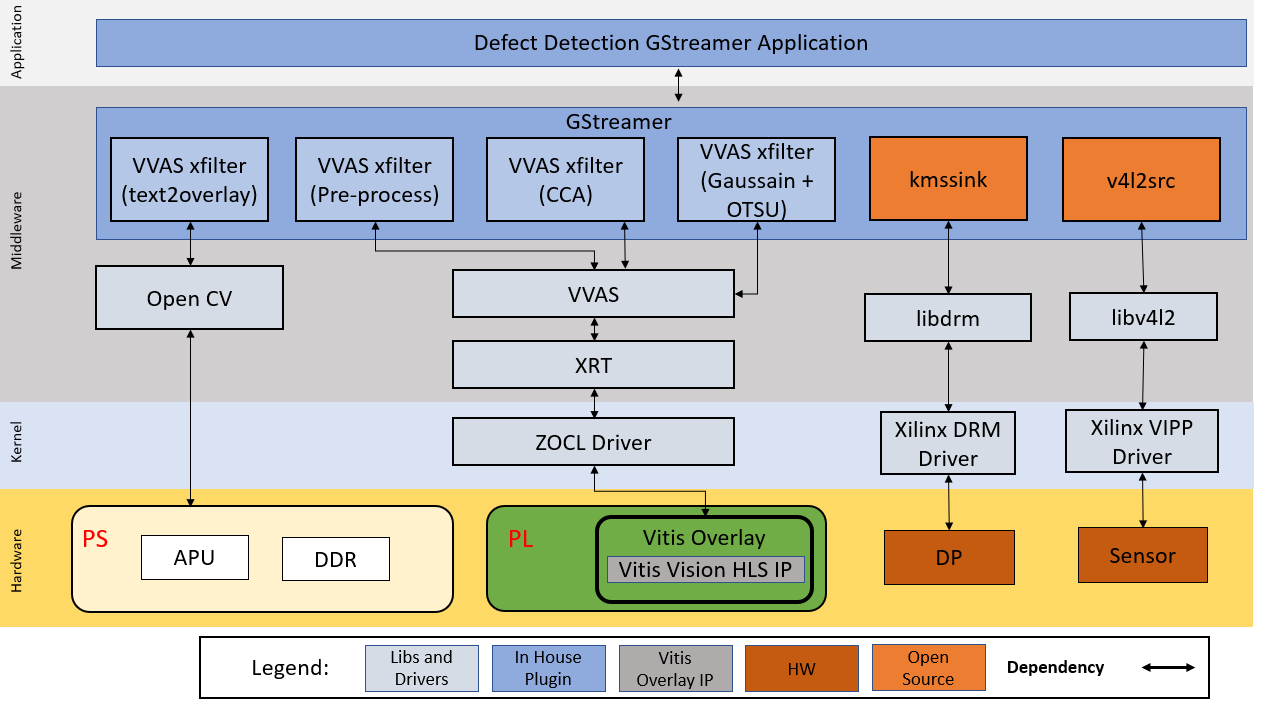
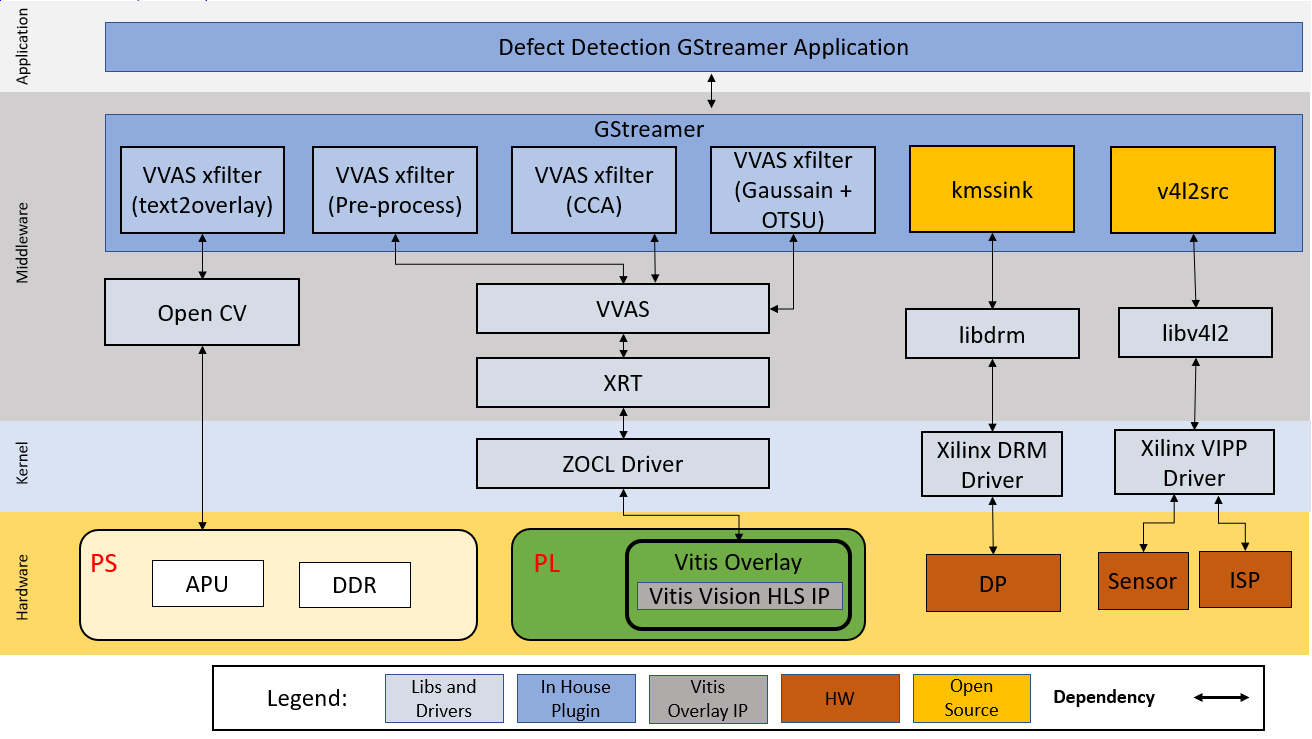
docs: Update SW platform architecture page
Remove redundant and incorrect information. Add ISP as new building
block in the capture pipeline.

diff --git a/docs/src/sw_arch_platform_dd.md b/docs/src/sw_arch_platform_dd.md
@@ -10,45 +10,35 @@
  </tr>
 </table>
 
-# System Architecture of the Platform
+# Software Architecture of the Platform
 
 ## Architecture Diagram
 
-
-The following figure illustrates the system architecture of the SOM MV-Defect-Detect application.
+The following figure illustrates the system architecture of the Kria KR260 MV-Defect-Detect application.
 
 ![](media/defect-detection-arch-dia.png)
 
-## GStreamer Pipeline Changes
-
-Gstreamer provides a simple and effective method to construct media pipelines. Since this example design leverages Gstreamer, the designer can easily modify the provided pipeline to tailor it to the needs of their specific application.
-
 ## Deployment
 
-This reference design includes a pre-packaged SD card image to provide a user-friendly out-of-the-box experience for the Vision MV-Defect-Detect Starter Kit. This image should be used first to verify the hardware setup and also to demonstrate the capabilities of the SOM. Each of the application examples provided with the kit are delivered as an RPM package group for ease of installation and deployment.
+This reference design is provided as prebuilt docker image to provide a user-friendly out-of-the-box experience. In addition to the docker image, the SW application source files are also provided to allow customization.
 
-In addition to the pre-build SD card image, the design source files are also provided to allow customization. The [Building the Design components](../../building_the_design.md) page documents in detail all the different design sources and steps to re-build the SD card image from scratch, including the AMD Vivado&trade; block design and AMD Vitis&trade; platform.
+The end applications leverages custom Gstreamer plugins for Vitis Vision libraries built using the VVAS framework. These plugins are mapped to the following libraries:
 
-The end applications leverage custom Gstreamer plugins for Vitis Vision libraries built using the VVAS framework. These plugins leverage the following libraries:
-
-| Deliveries| Type|Definition|
+| Binary Artifact| Type|Description|
 | ----------- | ----------- |------ |
 |libvvas_otsu.so | Kernel Library| Vitis Vision library for the Gaussian + OTSU detector. Preserves edges while smoothening and calculates the optimum threshold between foreground and background pixels. |
 | libvvas_preprocess.so |Kernel Library |Vitis Vision library to filter and remove the salt and pepper noise for defect detection. |
 |libvvas_cca.so | Kernel Library | Vitis Vision library to determine the defective pixels in the image.|
 |libvvas_text2overlay.so|Kernel Library|*OpenCV* software library to calculate the defect density, determine the quality of the mango, and embed text as result into output images.|
 |mv-defect-detect | Application Executable | Executable to invoke the whole application with options to choose a source, width, height, framerate, configuration file path, and other parameters.|
-____
 
-## Display Pipeline
-
-To support multiple video streams to be displayed on a 1080p monitor, the following solution is explored. The three images from various stages are of size 1920 x 1080. The following figure shows an example background and layout. This is the sample output display for defect detection on a monitor.
+## Application Overview
 
 The 1080p Monitor displays one of the following outputs:
 
-1. Input Image (output belongs to input GRAY8 data that comes from the file/live source)
-2. Binary Image (output belongs to pre-processed pipeline where Vitis Vision library threshold function can perform the thresholding operation on the input image and the Median blur filter acts as a non-linear digital filter that improves noise reduction)
-3. text2overlay Image (output belongs to the defected portions along with the defect results)
+1. Input Image (generated by file or live source, can be gray or RGB format)
+2. Binary Image (output of the pre-process kernel where Vitis Vision library threshold function performs the thresholding operation on the input image and the Median blur filter acts as a non-linear digital filter that improves noise reduction)
+3. text2overlay Image (output of the cca kernel with text overlay showing defected portions along with the defect results)
 
 The text2overlay image along with its embedded text contains:
 
@@ -60,7 +50,7 @@ The text2overlay image along with its embedded text contains:
 For a given set of test images, manually calculate accuracy as follows:
 
 1. Each image in the test is prelabeled by a human. The label indicates if the mango in the image is defected or not.
-2. The prelabeled result of the human is compared with the result given by the Vision SOM MV-Defect Detect system. The number of images that are not detected correctly is found.
+2. The prelabeled result of the human is compared with the result given by the MV-Defect Detect system. The number of images that are not detected correctly is found.
 3. The ratio of the number of images that are detected correctly to the total number of images in the test, is the accuracy of the MV-Defect-Detect system.
 
 Accumulated defects are the number of defects detected in a certain period of time.
@@ -75,23 +65,18 @@ The Final output of the mango is as shown in the following figure.
 ![](media/mvdd_final.PNG)
 
 
-> ***Note***: The test mango image is taken from [Cofilab site](http://www.cofilab.com/wp-content/downloads/DB_Mango.rar).
+***Note***: The test mango image is taken from [Cofilab site](http://www.cofilab.com/wp-content/downloads/DB_Mango.rar).
 
-In the PL, the video mixer IP reads the video streams (three images + base layer) from memory and streams it into the DP/HDMI port. AXI-Stream conversion to native video is done using AXI4-Stream to Video IP and Video Timing controller IP.
+The output image to be displayed on the monitor is selected via command line switch when starting the application.
 
-## Platform
+## Video Capture Pipeline
 
 ### Media Source Bin GStreamer Plugin
-
-<details>
- <summary><b>Click here to view details</b></summary>
-
 
 The *mediasrcbin* plugin is designed to simplify the usage of live video capture devices in this design. Otherwise, be careful about the initialization and configuration. The plugin is a bin element that includes the standard *v4l2src* GStreamer element. It configures the media pipelines of the supported video sources in this design. The *v4l2src* element inside the *mediasrcbin* element interfaces with the V4L2 Linux framework and the AMD VIPP driver through the video device node. The *mediasrcbin* element interfaces with the Media Controller Linux framework through the *v412-subdev* and media device nodes that allows to configure the media pipeline and its sub-devices. It uses the *libmediactl* and *libv4l2subdev* libraries, which provide the following functionality:
 
 * Enumerate entities, pads and links
 * Configure sub-devices
-
   * Set media bus format
   * Set dimensions (width/height)
   * Set frame rate
@@ -99,11 +84,9 @@ The *mediasrcbin* plugin is designed to simplify the usage of live video capture
 
 The *mediasrcbin* plugin sets the media bus format and resolution on each sub-device source and sink pad for the entire media pipeline. The formats between pads that are connected through links need to match. Refer to the Media Framework section for more information on entities, pads, and links.
 
-</details>
-
 ### Kernel Subsystems
 
-To model and control video capture pipelines such as the ones used in this TRD on Linux systems, multiple kernel frameworks and APIs are required to work in concert. For simplicity, refer to the overall solution as Video4Linux (V4L2) although the framework only provides part of the required functionality. The individual components are discussed in the following sections.
+To model and control video capture pipelines such as the ones used in this application on Linux systems, multiple kernel frameworks and APIs are required to work in concert. For simplicity, refer to the overall solution as Video4Linux (V4L2) although the framework only provides part of the required functionality. The individual components are discussed in the following sections.
 
 ### Driver Architecture
 
@@ -115,59 +98,44 @@ The Video Capture Software Stack figure in the Capture section shows how the gen
 
 ### Media Framework
 
-<details>
- <summary><b>Click here to view details</b></summary>
-
 The main goal of the media framework is to discover the device topology of a video pipeline and to configure it at runtime. To achieve this, the pipelines are modeled as an oriented graph of building blocks called entities connected through pads. An entity is a basic media hardware building block. It can correspond to a large variety of blocks such as physical hardware devices (for example, image sensors), logical hardware devices (for example, soft IP cores inside the PL), DMA channels, or physical connectors. Physical or logical devices are modeled as sub-device nodes and DMA channels as video nodes. A pad is a connection endpoint through which an entity can interact with other entities. Data produced by an entity flows from the entity's output to one or more entity inputs. A link is a point-to-point-oriented connection between two pads, either on the same entity or on different entities. Data flows from a source pad to a sink pad. A media device node is created that allows the user space application to configure the video pipeline and its sub-devices through the *libmediactl* and *libv4l2subdev* libraries. The media controller API provides the following functionality:
 
-  * Enumerate entities, pads and links
-  * Configure pads
+* Enumerate entities, pads and links
+* Configure pads
+  * Set media bus format
+  * Set dimensions (width/height)
+* Configure links
+* Enable/disable
+* Validate formats
 
-    * Set media bus format
-    * Set dimensions (width/height)
+The following figure shows the media graph for video capture pipeline as generated by the media-ctl utility. The sub-devices are shown in green with their corresponding control interface base address and sub-device node in the center. The numbers on the edges are pads and the solid arrows represent active links. The yellow boxes are video nodes that correspond to DMA channels, in this case, write channels (outputs).
 
-  * Configure links
-  * Enable/disable
-  * Validate formats
+![](media/MIPI-CS-2-Media-Graphs.png)
 
-  The following figure shows the media graphs for video capture pipeline as generated by the *media-ctl* utility. The sub-devices are shown in green with their corresponding control interface base address and sub-device node in the center. The numbers on the edges are pads and the solid arrows represent active links. The yellow boxes are video nodes that correspond to DMA channels, in this case, write channels (outputs).
+### Video IP Drivers
 
- ![](media/MIPI-CS-2-Media-Graphs.png)
+AMD adopted the V4L2 framework for most of its video IP portfolio. The currently supported video IPs and corresponding drivers are listed under V4L2. Each V4L driver has a sub-page that lists driver-specific details and provides pointers to the additional documentation. The following table provides a quick overview of the drivers used in this design.
 
-</details>
-
- ### Video IP Drivers
-
- <details>
- <summary><b>Click here to view details</b></summary>
-
-
- AMD adopted the V4L2 framework for most of its video IP portfolio. The currently supported video IPs and corresponding drivers are listed under V4L2. Each V4L driver has a sub-page that lists driver-specific details and provides pointers to the additional documentation. The following table provides a quick overview of the drivers used in this design.
-
- | Linux Driver| Function|
+| Linux Driver| Function|
 | ----------- | ----------- |
 | Xilinx Video Pipeline (XVIPP)    |   * Configures video pipeline and register media, video, and sub-device nodes |
 | |* Configures all entities in the pipeline and validate links|
 | | * Configures and controls DMA engines (Xilinx Video Framebuffer Write)|
-|AP1302 Video Image Signal Processing (ISP)| * Sets the media bus format and resolution for the sensor output pad|
+| Vitis Vision ISP Pipeline| * Supports both color and mono sensor pipeline variants|
 || * Sets the media bus format and resolution for ISP input and output pads|
 || * Provides ISP control parameters for setting: gamma, gain, contrast, and so on.|
+| IMX547 Image Sensor | * Configure sensor pad paramaters like format and resolution.
+|| * Provide sensor controls like exposure and gain|
 
-____
 
-</details>
+## Display Pipeline
 
-### DP Tx Display
-
-<details>
- <summary><b>Click here to view details</b></summary>
+### Overview
 
 Linux kernel and user-space frameworks for display and graphics are intertwined and the software stack can be quite complex with many layers and different standards / APIs. On the
 kernel side, the display and graphics portions are split with each having their own APIs. However, both are commonly referred to as a single framework, namely DRM/KMS. This split is advantageous, especially for SoCs that often have dedicated hardware blocks for display and graphics. The display pipeline driver is responsible for interfacing with the display uses the kernel mode setting (KMS) API and the GPU responsible for drawing objects into memory uses the direct rendering manager (DRM) API. Both APIs are accessed from user-space through a single device node.
 
 ![](media/DP-TX-Display.png)
-
-</details>
 
 ### Direct Rendering Manager
 
@@ -194,9 +162,23 @@ The connector models the physical interface to the display. Both DisplayPort and
 
 The framework exposes two device nodes per display pipeline to user space: the ```/dev/dri/card*``` device node and an emulated ```/dev/fb*``` device node for backward compatibility with the legacy *fbdev* Linux framework. The latter is not used in this design. *libdrm* was created to facilitate the interface of user space programs with the DRM subsystem. This library is merely a wrapper that provides a function written in C for every ioctl of the DRM API, as well as constants, structures and other helper elements. The use of *libdrm* not only avoids exposing the kernel interface directly to user space but presents the usual advantages of reusing and sharing code between programs.
 
+## 10GigE Vision Pipeline
+
+The image acquisition pipeline is completely offloaded to hardware; no software is involved in the streaming path. Software is only used for configuring the system, that means configuring the sensor and the GigE Vision IP. As Linux runs on the ARM system, a specific IMX547 driver is used, programming the sensor via PS I2C.
+
+A second driver (s2imac) integrates the XGigE core as ethX to the Linux system and binds standard Linux network services to that interface. A software application (gvrd) initializes the hardware and runs the GigE Vision control channel.
+
+According to the GigE vision specification, the device registers are described in the xml file. The host application requests this xml file from the device and creates a register tree. The registers on the device can then be read and written via the control channel. Hardware register accesses are implemented through calls to the s2imac network driver. Furthermore, the device software is responsible for configuring the GenICam GenDC descriptor.
+
+## References
+
+* [Sony IMX547 Image Sensor V4L2 Driver from Framos](https://github.com/Xilinx/mv-camera-sensor-module)
+* [AMD Vitis Vision ISP V4L2 Driver](https://github.com/Xilinx/xilinx-isp-module)
+
 ## Next Steps
 
-* [Software Accelerator](sw_arch_accel_dd.md)
+* [Software Architecture of the Accelerator](sw_arch_accel_dd.md)
+* Go back to the [Hardware Architecture of the Platform](hw_arch_accel_dd.md)
 * Go back to the [Application Deployment](app_deployment.md)
 
 <!---
@@ -211,4 +193,4 @@ Unless required by applicable law or agreed to in writing, software distributed 
 
 -->
 
-<p align="center"><sup>Copyright&copy; 2023 Advanced Micro Devices, Inc.</sup></p>
+<p align="center"><sup>Copyright&copy; 2023 -2024 Advanced Micro Devices, Inc.</sup></p>
